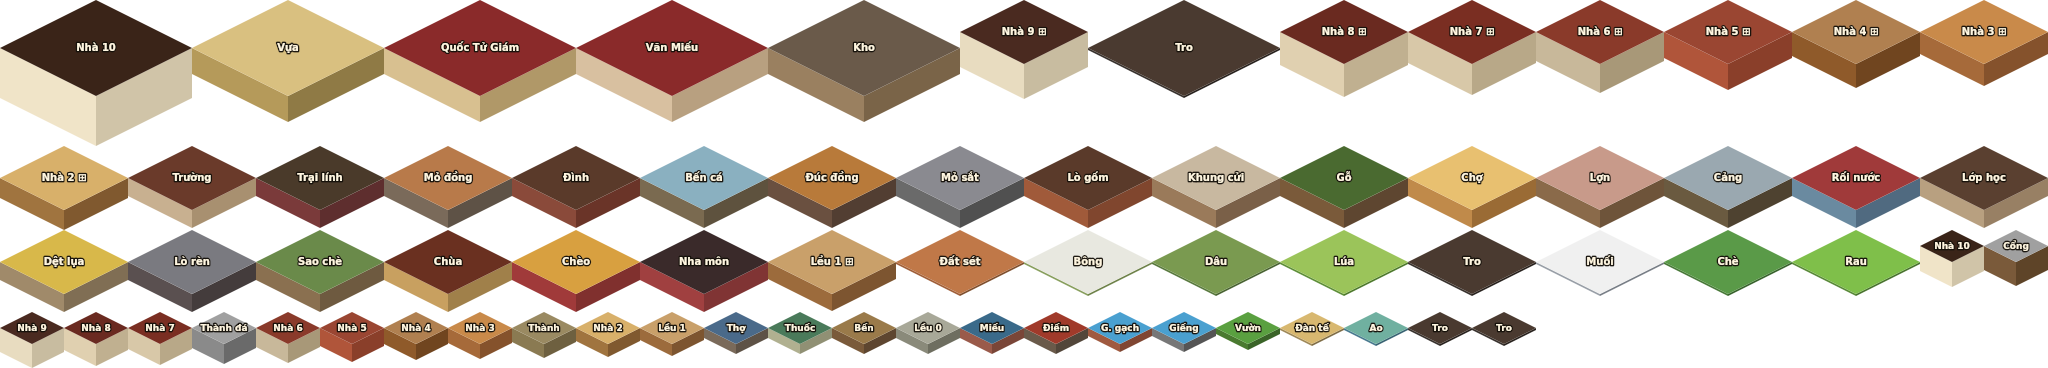
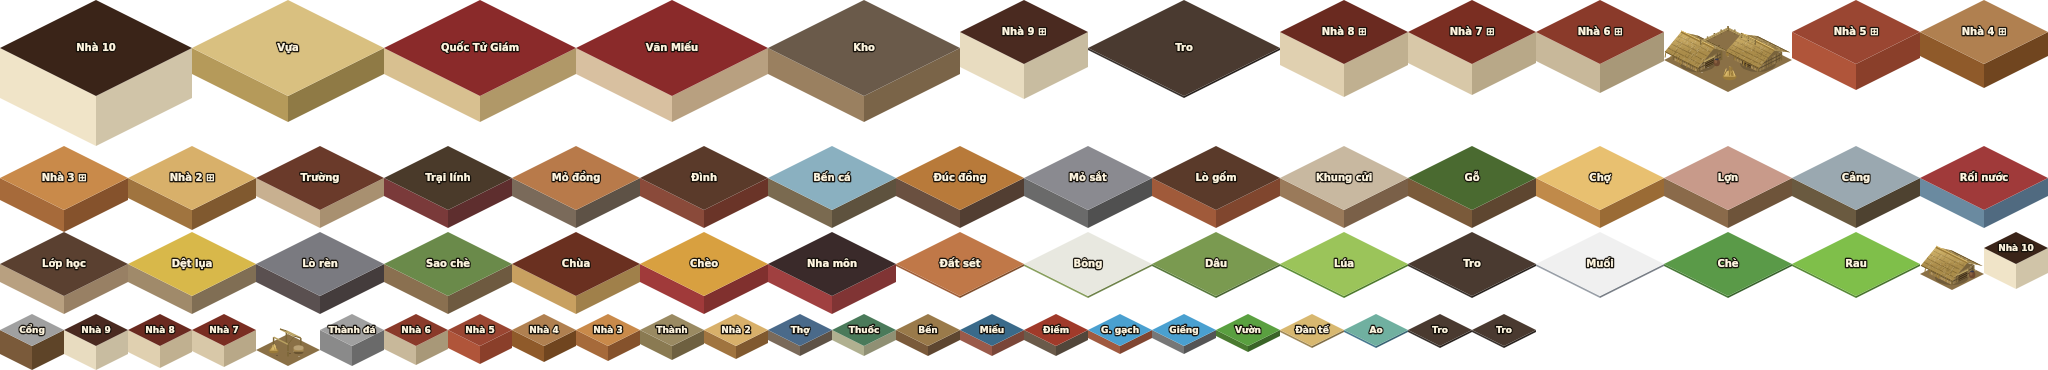
Hình thật đầu tiên: lều (bậc 0 nền chờ dân, bậc 1 lều tranh 1×1 và gộp 2×2) vẽ bằng canvas; khung gen-art
- scripts/art/lib.ts: hệ tọa độ ô (u, v, z), RNG xác định, đa giác, cắt vùng, bóng đổ
- scripts/art/house.ts: nền đất nện, vách phên tre, hồi nhà, cửa liếp, mái rơm hai mái có vân, chum nước, đống rơm, rào tre
- scripts/gen-art.ts ghi assets/art.json; gen-placeholders bỏ qua file trong danh sách; npm run assets = art → gen → pack
- tests/sprites.test.ts: frame vẽ thật không mang cờ placeholder
- README: Ghi chú hình thật (kèm sửa bản đồ thu nhỏ)

Claude-Session: https://claude.ai/code/session_01P1LM4c1ZvJ6pKxVEFpyU72

diff --git a/scripts/art/house.ts b/scripts/art/house.ts
@@ -1,0 +1,189 @@
+// Nhà ở — bậc 0 (lều trống chờ dân) và bậc 1 (lều tranh): nền đất nện, vách phên tre, mái rơm hai mái, cửa liếp.
+// Mỗi hình vẽ theo tọa độ ô (u, v) trên móng, cao z px; xem lib.ts.
+import { clipped, darken, hex, HALF_H, HALF_W, lighten, line, mix, poly, polyUV, rng, scene, shadow, type Canvas, type Scene } from './lib';
+
+// bảng màu lều
+const EARTH = 0x8a7046, EARTH_DARK = 0x6e5838, STRAW = 0xc9a85c, STRAW_LIGHT = 0xe0c070, STRAW_DARK = 0x9a7a38;
+const BAMBOO = 0xb8a060, BAMBOO_DARK = 0x7a6436, WATTLE = 0xa88a52, WATTLE_DARK = 0x6a5430, DOOR = 0x3a2a18;
+
+/** Nền đất nện (hình thoi hơi nhỏ hơn móng) với vài hòn sỏi. */
+export function earthFloor(s: Scene, u0: number, v0: number, u1: number, v1: number, seed: number): void {
+  polyUV(s, [[u0, v0, 0], [u1, v0, 0], [u1, v1, 0], [u0, v1, 0]], hex(EARTH));
+  const r = rng(seed);
+  for (let i = 0; i < 6; i++) {
+    const [x, y] = s.p(u0 + (u1 - u0) * r(), v0 + (v1 - v0) * r());
+    s.g.fillStyle = hex(i % 2 ? EARTH_DARK : lighten(EARTH, 0.25));
+    s.g.fillRect(Math.round(x), Math.round(y), 2, 1);
+  }
+}
+
+/** Mái rơm một mặt: tứ giác ridge(a→b) tới eave(c→d) theo (u, v, z), tô nền rồi vân rơm theo chiều dốc. */
+function thatchPlane(s: Scene, ridgeA: [number, number, number], ridgeB: [number, number, number], eaveB: [number, number, number], eaveA: [number, number, number], base: number, seed: number): void {
+  const pts = [ridgeA, ridgeB, eaveB, eaveA].map(([u, v, z]) => s.p(u, v, z));
+  poly(s.g, pts, hex(base));
+  const r = rng(seed);
+  const lerp = (a: [number, number, number], b: [number, number, number], t: number): [number, number, number] => [a[0] + (b[0] - a[0]) * t, a[1] + (b[1] - a[1]) * t, a[2] + (b[2] - a[2]) * t];
+  clipped(s.g, pts, () => {
+    // lớp rơm: các hàng chồng lên nhau từ nóc xuống giọt tranh, mỗi hàng một vệt tối mảnh; trên đó rải sợi rơm ngắn theo chiều dốc
+    for (let k = 1; k < 5; k++) {
+      const t = k / 5;
+      line(s.g, s.p(...lerp(ridgeA, eaveA, t)), s.p(...lerp(ridgeB, eaveB, t)), `rgba(70,50,15,${0.22 + k * 0.04})`, 1);
+    }
+    const n = 140;
+    for (let i = 0; i < n; i++) {
+      const a = r(), t = r();
+      const top = lerp(ridgeA, ridgeB, a), bot = lerp(eaveA, eaveB, a);
+      const p0 = lerp(top, bot, t), p1 = lerp(top, bot, Math.min(1, t + 0.05 + r() * 0.08));
+      const shade = r();
+      const col = shade < 0.3 ? darken(base, 0.12 + r() * 0.1) : shade > 0.7 ? lighten(base, 0.14 + r() * 0.1) : mix(base, STRAW_DARK, 0.15);
+      line(s.g, s.p(...p0), s.p(...p1), hex(col), 1);
+    }
+    // sáng ở gần nóc, tối dần về giọt tranh
+    const g0 = s.p(...ridgeA), g1 = s.p(...eaveA);
+    const grad = s.g.createLinearGradient(g0[0], g0[1], g0[0], g1[1]);
+    grad.addColorStop(0, 'rgba(255,240,180,0.18)'); grad.addColorStop(1, 'rgba(60,40,10,0.22)');
+    s.g.fillStyle = grad; s.g.fillRect(0, 0, s.W, s.H);
+    const e0 = s.p(...eaveA), e1 = s.p(...eaveB);
+    s.g.strokeStyle = 'rgba(60,40,10,0.6)'; s.g.lineWidth = 1.5;
+    s.g.beginPath(); s.g.moveTo(e0[0], e0[1]); s.g.lineTo(e1[0], e1[1]); s.g.stroke();
+  });
+}
+
+/** Vách phên tre: tứ giác đứng, tô nền rồi kẻ nan đứng + hai thanh ngang. */
+function wattleWall(s: Scene, a: [number, number], b: [number, number], h: number, base: number, seed: number): void {
+  const pts: [number, number][] = [s.p(a[0], a[1], 0), s.p(b[0], b[1], 0), s.p(b[0], b[1], h), s.p(a[0], a[1], h)];
+  poly(s.g, pts, hex(base));
+  const r = rng(seed);
+  clipped(s.g, pts, () => {
+    const [x0, y0] = s.p(a[0], a[1], 0), [x1, y1] = s.p(b[0], b[1], 0);
+    const len = Math.hypot(x1 - x0, y1 - y0);
+    for (let d = 2; d < len; d += 2.5 + r()) {
+      const t = d / len, x = x0 + (x1 - x0) * t, y = y0 + (y1 - y0) * t;
+      line(s.g, [x, y], [x, y - h], hex(r() < 0.5 ? darken(base, 0.22) : lighten(base, 0.12)), 1);
+    }
+    for (const z of [h * 0.35, h * 0.7]) line(s.g, s.p(a[0], a[1], z), s.p(b[0], b[1], z), hex(darken(base, 0.35)), 1);
+  });
+}
+
+export interface HutOpts { /** mái cao (px) */ ridge?: number; /** tường cao (px) */ wall?: number; /** cửa ở mặt phải (u = u1) hay mặt trái (v = v1) */ doorRight?: boolean; seed: number }
+
+/** Lều tranh trên vùng [u0, u1] × [v0, v1], nóc chạy dọc trục u. */
+export function hut(s: Scene, u0: number, v0: number, u1: number, v1: number, o: HutOpts): void {
+  const wall = o.wall ?? 9, ridge = o.ridge ?? 19, ov = 0.14, vm = (v0 + v1) / 2;
+  const eave = wall - 1;
+  shadow(s, (u0 + u1) / 2 + 0.1, (v0 + v1) / 2 + 0.1, (u1 - u0) * 0.75, (v1 - v0) * 0.75, 0.22);
+  // vách: mặt trái (v = v1) và mặt phải (u = u1)
+  wattleWall(s, [u0, v1], [u1, v1], wall, WATTLE, o.seed + 1);
+  wattleWall(s, [u1, v1], [u1, v0], wall, darken(WATTLE, 0.18), o.seed + 2);
+  // hồi nhà (tam giác) ở mặt phải u = u1
+  polyUV(s, [[u1, v1, wall], [u1, v0, wall], [u1, vm, ridge - 2]], hex(darken(WATTLE, 0.28)));
+  line(s.g, s.p(u1, v1, wall), s.p(u1, vm, ridge - 2), hex(BAMBOO_DARK), 1);
+  line(s.g, s.p(u1, v0, wall), s.p(u1, vm, ridge - 2), hex(BAMBOO_DARK), 1);
+  // cột tre ở góc
+  for (const [u, v] of [[u0, v1], [u1, v1], [u1, v0]] as [number, number][]) line(s.g, s.p(u, v, 0), s.p(u, v, wall), hex(BAMBOO_DARK), 1.5);
+  // cửa liếp
+  if (o.doorRight ?? true) {
+    const d0 = vm + 0.14, d1 = vm - 0.14;
+    polyUV(s, [[u1, d0, 0], [u1, d1, 0], [u1, d1, wall - 2], [u1, d0, wall - 2]], hex(DOOR));
+    for (let z = 1; z < wall - 2; z += 2) line(s.g, s.p(u1, d0, z), s.p(u1, d1, z), 'rgba(200,170,90,0.35)', 1);
+    line(s.g, s.p(u1, d0 + 0.03, wall - 2), s.p(u1, d1 - 0.03, wall - 2), hex(BAMBOO), 1.5);
+  } else {
+    const um = (u0 + u1) / 2, d0 = um - 0.14, d1 = um + 0.14;
+    polyUV(s, [[d0, v1, 0], [d1, v1, 0], [d1, v1, wall - 2], [d0, v1, wall - 2]], hex(DOOR));
+    for (let z = 1; z < wall - 2; z += 2) line(s.g, s.p(d0, v1, z), s.p(d1, v1, z), 'rgba(200,170,90,0.35)', 1);
+    line(s.g, s.p(d0 - 0.03, v1, wall - 2), s.p(d1 + 0.03, v1, wall - 2), hex(BAMBOO), 1.5);
+  }
+  // mái: mặt sau (hướng lên, sáng) rồi mặt trước (sẫm hơn); nóc chạy dọc u từ u0−ov tới u1+ov ở v = vm
+  thatchPlane(s, [u0 - ov, vm, ridge], [u1 + ov, vm, ridge], [u1 + ov, v0 - ov, eave], [u0 - ov, v0 - ov, eave], lighten(STRAW, 0.12), o.seed + 3);
+  thatchPlane(s, [u0 - ov, vm, ridge], [u1 + ov, vm, ridge], [u1 + ov, v1 + ov, eave], [u0 - ov, v1 + ov, eave], STRAW, o.seed + 4);
+  // nóc: tre buộc
+  line(s.g, s.p(u0 - ov, vm, ridge), s.p(u1 + ov, vm, ridge), hex(STRAW_DARK), 2);
+  line(s.g, s.p(u0 - ov, vm, ridge + 1), s.p(u1 + ov, vm, ridge + 1), hex(STRAW_LIGHT), 1);
+  // vài sợi rơm lòa xòa ở giọt tranh trước
+  const r = rng(o.seed + 5);
+  for (let i = 0; i < 7; i++) {
+    const u = u0 - ov + (u1 - u0 + 2 * ov) * r();
+    line(s.g, s.p(u, v1 + ov, eave), s.p(u + 0.02, v1 + ov + 0.04, eave - 2 - r() * 2), hex(STRAW_DARK), 1);
+  }
+}
+
+/** Chum nước đất nung cạnh cửa. */
+export function waterJar(s: Scene, u: number, v: number): void {
+  const [x, y] = s.p(u, v);
+  const g = s.g;
+  g.fillStyle = hex(0x6e4a30);
+  g.beginPath(); g.ellipse(x, y - 3, 3.2, 3.6, 0, 0, Math.PI * 2); g.fill();
+  g.fillStyle = hex(0x8a6040);
+  g.beginPath(); g.ellipse(x - 1, y - 4, 1.4, 2, 0, 0, Math.PI * 2); g.fill();
+  g.fillStyle = hex(0x3a3a4a);
+  g.beginPath(); g.ellipse(x, y - 6.3, 2, 0.9, 0, 0, Math.PI * 2); g.fill();
+}
+
+/** Đống rơm nhỏ. */
+export function haystack(s: Scene, u: number, v: number, r0 = 5): void {
+  const [x, y] = s.p(u, v);
+  const g = s.g, r = rng(Math.round(u * 100 + v * 7));
+  g.fillStyle = hex(STRAW_DARK);
+  g.beginPath(); g.ellipse(x, y, r0 + 1, (r0 + 1) / 2, 0, 0, Math.PI * 2); g.fill();
+  g.fillStyle = hex(STRAW);
+  g.beginPath(); g.moveTo(x - r0, y); g.quadraticCurveTo(x, y - r0 * 2.2, x + r0, y); g.closePath(); g.fill();
+  for (let i = 0; i < 10; i++) { const a = -r0 + r() * 2 * r0; line(g, [x + a, y - 1], [x + a * 0.6, y - r0 * (0.6 + r() * 1.2)], hex(i % 2 ? STRAW_LIGHT : STRAW_DARK), 1); }
+}
+
+/** Hàng rào tre thưa dọc đoạn (u, v) → (u, v) trên mặt đất. */
+export function fence(s: Scene, a: [number, number], b: [number, number], h = 5): void {
+  const [x0, y0] = s.p(a[0], a[1]), [x1, y1] = s.p(b[0], b[1]);
+  const len = Math.hypot(x1 - x0, y1 - y0), n = Math.max(2, Math.round(len / 7));
+  for (let i = 0; i <= n; i++) { const t = i / n, x = x0 + (x1 - x0) * t, y = y0 + (y1 - y0) * t; line(s.g, [x, y], [x, y - h], hex(BAMBOO_DARK), 1.5); }
+  line(s.g, [x0, y0 - h + 1.5], [x1, y1 - h + 1.5], hex(BAMBOO), 1);
+  line(s.g, [x0, y0 - 2], [x1, y1 - 2], hex(BAMBOO), 1);
+}
+
+/** Bậc 0: nền chờ dân — đất nện, khung tre dựng dở, cuộn phên, đống rơm. */
+export function vacantLot(n: number): Canvas {
+  const s = scene(n, 20);
+  const seed = 11;
+  earthFloor(s, 0, 0, n, n, seed);
+  const u0 = 0.25, v0 = 0.3, u1 = n - 0.3, v1 = n - 0.3, h = 12;
+  // bốn cột và hai xà
+  for (const [u, v] of [[u0, v0], [u1, v0], [u0, v1], [u1, v1]] as [number, number][]) line(s.g, s.p(u, v, 0), s.p(u, v, h), hex(BAMBOO_DARK), 1.5);
+  line(s.g, s.p(u0, v0, h), s.p(u1, v0, h), hex(BAMBOO), 1.5);
+  line(s.g, s.p(u0, v1, h), s.p(u1, v1, h), hex(BAMBOO), 1.5);
+  line(s.g, s.p(u0, (v0 + v1) / 2, h + 5), s.p(u1, (v0 + v1) / 2, h + 5), hex(BAMBOO), 1.5);
+  line(s.g, s.p(u0, v0, h), s.p(u0, (v0 + v1) / 2, h + 5), hex(BAMBOO_DARK), 1);
+  line(s.g, s.p(u1, v0, h), s.p(u1, (v0 + v1) / 2, h + 5), hex(BAMBOO_DARK), 1);
+  line(s.g, s.p(u1, v1, h), s.p(u1, (v0 + v1) / 2, h + 5), hex(BAMBOO_DARK), 1);
+  // cuộn phên tre và đống rơm chờ lợp
+  const [jx, jy] = s.p(n - 0.22, n - 0.55);
+  s.g.fillStyle = hex(WATTLE_DARK); s.g.beginPath(); s.g.ellipse(jx, jy - 2, 5, 2.5, 0, 0, Math.PI * 2); s.g.fill();
+  s.g.fillStyle = hex(WATTLE); s.g.fillRect(jx - 5, jy - 6, 10, 4);
+  s.g.fillStyle = hex(lighten(WATTLE, 0.2)); s.g.beginPath(); s.g.ellipse(jx, jy - 6, 5, 2.5, 0, 0, Math.PI * 2); s.g.fill();
+  haystack(s, 0.3, n - 0.25, 4);
+  return s.c;
+}
+
+/** Bậc 1: lều tranh 1×1. */
+export function tent1(): Canvas {
+  const s = scene(1, 26);
+  earthFloor(s, 0, 0, 1, 1, 3); // nền phủ trọn ô để không lộ nền móng tối của lớp đất
+  hut(s, 0.14, 0.16, 0.84, 0.84, { seed: 3 });
+  waterJar(s, 0.93, 0.3);
+  return s.c;
+}
+
+/** Bậc 1 gộp 2×2: hai lều quanh sân đất, đống rơm, rào tre. */
+export function tent2(): Canvas {
+  const s = scene(2, 28);
+  earthFloor(s, 0, 0, 2, 2, 21);
+  hut(s, 0.15, 1.1, 0.9, 1.85, { seed: 5, ridge: 20 });
+  hut(s, 1.1, 0.18, 1.85, 0.9, { seed: 8, ridge: 18, doorRight: false });
+  haystack(s, 1.55, 1.5, 6);
+  waterJar(s, 1.0, 1.35);
+  fence(s, [0.1, 0.1], [0.95, 0.1]);
+  fence(s, [0.1, 0.1], [0.1, 0.95]);
+  return s.c;
+}
+
+export function houseFrames(): Record<string, Canvas> {
+  return { 'houses/house_l0.png': vacantLot(1), 'houses/house_l1.png': tent1(), 'houses/house2_l1.png': tent2() };
+}

diff --git a/scripts/art/lib.ts b/scripts/art/lib.ts
@@ -1,0 +1,81 @@
+// Thư viện vẽ hình thật bằng canvas (Node, @napi-rs/canvas) cho scripts/gen-art.ts — isometric 2:1, ô 64×32, neo (0.5, 1).
+// Mọi hình vẽ theo tọa độ ô (u, v) ∈ [0, N] trên móng N×N và cao z (px): x = W/2 + (u − v)·32, y = (H − N·32) + (u + v)·16 − z.
+import { createCanvas, type SKRSContext2D } from '@napi-rs/canvas';
+
+export const TILE_W = 64, TILE_H = 32, HALF_W = 32, HALF_H = 16;
+
+export type Canvas = ReturnType<typeof createCanvas>;
+export type Ctx = SKRSContext2D;
+
+/** RNG xác định (mulberry32) để nét rơm / vân gỗ giống nhau mỗi lần sinh. */
+export function rng(seed: number): () => number {
+  let a = seed >>> 0;
+  return () => {
+    a = (a + 0x6d2b79f5) >>> 0;
+    let t = a;
+    t = Math.imul(t ^ (t >>> 15), t | 1);
+    t ^= t + Math.imul(t ^ (t >>> 7), t | 61);
+    return ((t ^ (t >>> 14)) >>> 0) / 4294967296;
+  };
+}
+
+export interface Scene { c: Canvas; g: Ctx; n: number; W: number; H: number; /** (u, v, z) → [x, y] */ p: (u: number, v: number, z?: number) => [number, number] }
+
+/** Ảnh cho móng N×N với phần nhô lên `extra` px trên đỉnh hình thoi. */
+export function scene(n: number, extra: number): Scene {
+  const W = n * TILE_W, H = n * TILE_H + extra;
+  const c = createCanvas(W, H);
+  const g = c.getContext('2d');
+  const p = (u: number, v: number, z = 0): [number, number] => [W / 2 + (u - v) * HALF_W, H - n * TILE_H + (u + v) * HALF_H - z];
+  return { c, g, n, W, H, p };
+}
+
+export const hex = (c: number): string => `#${c.toString(16).padStart(6, '0')}`;
+/** Trộn hai màu 0xRRGGBB theo t ∈ [0, 1]. */
+export function mix(a: number, b: number, t: number): number {
+  const ch = (s: number) => Math.round(((a >> s) & 255) * (1 - t) + ((b >> s) & 255) * t);
+  return (ch(16) << 16) | (ch(8) << 8) | ch(0);
+}
+export const darken = (c: number, t: number): number => mix(c, 0x000000, t);
+export const lighten = (c: number, t: number): number => mix(c, 0xffffff, t);
+
+/** Đa giác theo danh sách điểm màn hình. */
+export function poly(g: Ctx, pts: [number, number][], fill: string, stroke?: string, lw = 1): void {
+  g.beginPath();
+  g.moveTo(pts[0][0], pts[0][1]);
+  for (let i = 1; i < pts.length; i++) g.lineTo(pts[i][0], pts[i][1]);
+  g.closePath();
+  g.fillStyle = fill;
+  g.fill();
+  if (stroke) { g.strokeStyle = stroke; g.lineWidth = lw; g.stroke(); }
+}
+
+/** Đa giác theo tọa độ ô (u, v, z). */
+export const polyUV = (s: Scene, pts: [number, number, number][], fill: string, stroke?: string, lw = 1): void => poly(s.g, pts.map(([u, v, z]) => s.p(u, v, z)), fill, stroke, lw);
+
+export function line(g: Ctx, a: [number, number], b: [number, number], color: string, lw = 1): void {
+  g.beginPath(); g.moveTo(a[0], a[1]); g.lineTo(b[0], b[1]); g.strokeStyle = color; g.lineWidth = lw; g.stroke();
+}
+
+/** Vẽ trong vùng cắt là đa giác (dùng cho vân rơm / vân gỗ không tràn ra ngoài mặt). */
+export function clipped(g: Ctx, pts: [number, number][], draw: () => void): void {
+  g.save();
+  g.beginPath();
+  g.moveTo(pts[0][0], pts[0][1]);
+  for (let i = 1; i < pts.length; i++) g.lineTo(pts[i][0], pts[i][1]);
+  g.closePath();
+  g.clip();
+  draw();
+  g.restore();
+}
+
+/** Bóng đổ mềm hình elip dưới chân công trình (vẽ trước). */
+export function shadow(s: Scene, u: number, v: number, ru: number, rv: number, alpha = 0.25): void {
+  const [cx, cy] = s.p(u, v);
+  s.g.save();
+  s.g.fillStyle = `rgba(20,16,8,${alpha})`;
+  s.g.beginPath();
+  s.g.ellipse(cx, cy, ru * HALF_W, rv * HALF_H, 0, 0, Math.PI * 2);
+  s.g.fill();
+  s.g.restore();
+}

diff --git a/scripts/gen-placeholders.ts b/scripts/gen-placeholders.ts
@@ -2,7 +2,7 @@
 // Khi có hình thật, thả PNG cùng tên vào assets/ và chạy `npm run assets:pack`; file này không cần chạy lại.
 // Kích thước và điểm neo theo 5 điểm kỹ thuật chốt từ M1: ô 64×32, công trình N×N rộng N×64, neo (0.5, 1) = góc dưới hình thoi móng.
 import { createCanvas, GlobalFonts, type SKRSContext2D } from '@napi-rs/canvas';
-import { mkdirSync, readFileSync, writeFileSync, rmSync } from 'node:fs';
+import { existsSync, mkdirSync, readFileSync, writeFileSync, rmSync } from 'node:fs';
 import { join } from 'node:path';
 import { BuildingType, FigureType, Resource } from '../src/sim/state';
 import { blockColors, COLOR, dikeHeightPx, FIG_COLOR, HOUSE_COLORS, RES_COLOR, typeHeight } from '../src/render/palette';
@@ -18,7 +18,10 @@ const resources = JSON.parse(readFileSync(join(ROOT, 'src/data/resources.json'),
 
 const hex = (c: number) => `#${c.toString(16).padStart(6, '0')}`;
 const generated: string[] = [];
+/** Hình thật do scripts/gen-art.ts vẽ: không đè bằng khối màu. */
+const art = new Set<string>(existsSync(join(ASSETS, 'art.json')) ? (JSON.parse(readFileSync(join(ASSETS, 'art.json'), 'utf8')) as { files: string[] }).files : []);
 function save(rel: string, canvas: ReturnType<typeof createCanvas>): void {
+  if (art.has(rel)) return;
   const file = join(ASSETS, rel);
   mkdirSync(join(file, '..'), { recursive: true });
   writeFileSync(file, canvas.toBuffer('image/png'));

diff --git a/tests/sprites.test.ts b/tests/sprites.test.ts
@@ -8,6 +8,7 @@ import { BuildingType, FigureType, RES_COUNT } from '../src/sim/state';
 import { BUILDING_DEFS, BUILDING_KEYS, HOUSE_LEVELS, RESOURCES } from '../src/sim/buildings/defs';
 import { buildingFrame, dikeFrame } from '../src/render/chunks';
 import type { SheetJson } from '../src/render/sheets';
+import artJson from '../assets/art.json';
 
 const buildings = buildingsJson as unknown as SheetJson, ground = groundJson as unknown as SheetJson, figures = figuresJson as unknown as SheetJson;
 
@@ -60,8 +61,10 @@ describe('spritesheet', () => {
     }
     for (let r = 1; r < RES_COUNT; r++) expect(figures.frames[`cargo_${RESOURCES[r].key}`], RESOURCES[r].key).toBeDefined();
   });
-  it('sheet tạm được đánh dấu placeholder để UI bật "Hiện tên"', () => {
+  it('sheet còn frame tạm được đánh dấu placeholder để UI bật "Hiện tên"; frame vẽ thật (assets/art.json) thì không', () => {
     expect(buildings.placeholder).toBe(true);
-    expect(Object.values(buildings.frames).every((f) => f.placeholder)).toBe(true);
+    const art = new Set((artJson as { files: string[] }).files.map((f) => f.replace(/^.*\//, '').replace(/\.png$/, '')));
+    expect(art.has('house_l1')).toBe(true);
+    for (const [name, f] of Object.entries(buildings.frames)) expect(f.placeholder, name).toBe(!art.has(name));
   });
 });

diff --git a/scripts/gen-art.ts b/scripts/gen-art.ts
@@ -1,0 +1,19 @@
+// Sinh hình thật (vẽ bằng canvas, scripts/art/*) vào assets/ và ghi danh sách vào assets/art.json —
+// gen-placeholders.ts bỏ qua các file này nên không đè lại bằng khối màu. Chạy: `npm run assets:art` (nằm trong `npm run assets`).
+import { mkdirSync, writeFileSync } from 'node:fs';
+import { join } from 'node:path';
+import { houseFrames } from './art/house';
+
+const ROOT = join(import.meta.dirname, '..');
+const ASSETS = join(ROOT, 'assets');
+
+const frames = { ...houseFrames() };
+const files: string[] = [];
+for (const [rel, canvas] of Object.entries(frames)) {
+  const file = join(ASSETS, rel);
+  mkdirSync(join(file, '..'), { recursive: true });
+  writeFileSync(file, canvas.toBuffer('image/png'));
+  files.push(rel);
+}
+writeFileSync(join(ASSETS, 'art.json'), JSON.stringify({ _note: 'PNG vẽ bằng scripts/gen-art.ts (hình thật, không phải hình tạm). gen-placeholders.ts bỏ qua các file này.', files: files.sort() }, null, 2) + '\n');
+console.log(`art: ${files.length} file`);

diff --git a/README.md b/README.md
@@ -199,3 +199,9 @@ Giữ đúng thiết kế: Ân sủng −2/năm, chiếu chỉ trễ lần đầ
 - **Vua đổi chiếu chỉ theo tính cách** (`court.json → king.*.extraEdict`, `kingExtraEdicts` trong `court.ts`): lúc tạo màn, ngoài lịch chiếu chỉ ghi trong file màn, vua thêm chiếu chỉ loại mình trọng — sùng Phật: nghi lễ chùa từ năm 2, 2 năm một lần, số chùa tăng mỗi 4 năm; trọng Nho: nghi lễ trường học từ năm 3, 3 năm một lần; hiếu chiến: binh dịch 10 đinh từ năm 2, 2 năm một lần, gấp đôi sau 4 năm. Bỏ năm đã có chiếu chỉ cùng loại trong file màn; sứ giả đi tháng 3 (cố định, không tốn RNG). Chơi tự do không có.
 - **Test**: `tests/m7.test.ts` (cầu: đường / dân / thuyền / tiền / hoàn tác / phá; cổng: đặt, walker qua, giặc phá 4 đòn rồi vào; phu lao dịch; thuyền 2 kiện và hết hạn chờ; quân triều đình có / không nha môn, đánh lui; lịch chiếu chỉ vua).
 
+## Ghi chú hình thật (`scripts/gen-art.ts`, `scripts/art/*`)
+
+- Hình thật vẽ bằng canvas trong Node (không cần họa sĩ, sửa số là đổi hình), cùng kích thước và điểm neo với hình tạm: ô 64×32, móng N×N rộng N×64, neo (0.5, 1). `scripts/art/lib.ts`: hệ tọa độ ô (u, v, z) → màn hình, RNG xác định (mulberry32) cho vân rơm / sỏi, đa giác, cắt vùng, bóng đổ. `npm run assets:art` ghi PNG vào `assets/` và danh sách `assets/art.json`; `gen-placeholders.ts` bỏ qua các file trong danh sách này nên `npm run assets` (art → gen → pack) không đè lại. Frame vẽ thật có `placeholder: false` trong sheet, nên nút "Hiện tên" mới ghi tên lên (hình tạm đã có sẵn tên).
+- **Lều** (`scripts/art/house.ts`): bậc 0 (`house_l0`) là nền đất nện chờ dân với khung tre dựng dở, cuộn phên và đống rơm; bậc 1 (`house_l1`) là lều tranh: nền đất phủ trọn ô (để không lộ nền móng tối), vách phên tre (nan đứng + hai thanh ngang, mặt phải sẫm hơn), hồi nhà tam giác, cột tre góc, cửa liếp, mái rơm hai mái nóc dọc trục u (mặt sau sáng, mặt trước sẫm; vân rơm là sợi ngắn theo chiều dốc + các hàng rơm chồng + gradient sáng nóc / tối giọt tranh + sợi lòa xòa), chum nước cạnh cửa, bóng đổ mềm. Bậc 1 gộp 2×2 (`house2_l1`): hai lều quanh sân đất, đống rơm, rào tre hai cạnh sau. Màu trong hằng ở đầu file (EARTH, STRAW, WATTLE, BAMBOO…).
+- Bản đồ thu nhỏ: sửa lỗi cột bị nhân đôi (hình xô lệch thành chữ X, khung nhìn lạc chỗ); nay chỉ phóng vùng đất đã cấp (không tính ô chưa cấp) cho vừa khung 208×125 (màn hẹp 128×77), có lề nhỏ thấy đất chưa cấp bao quanh, khung nhìn dày 2 px; bấm / kéo vẫn đổi ngược về ô đúng.
+
